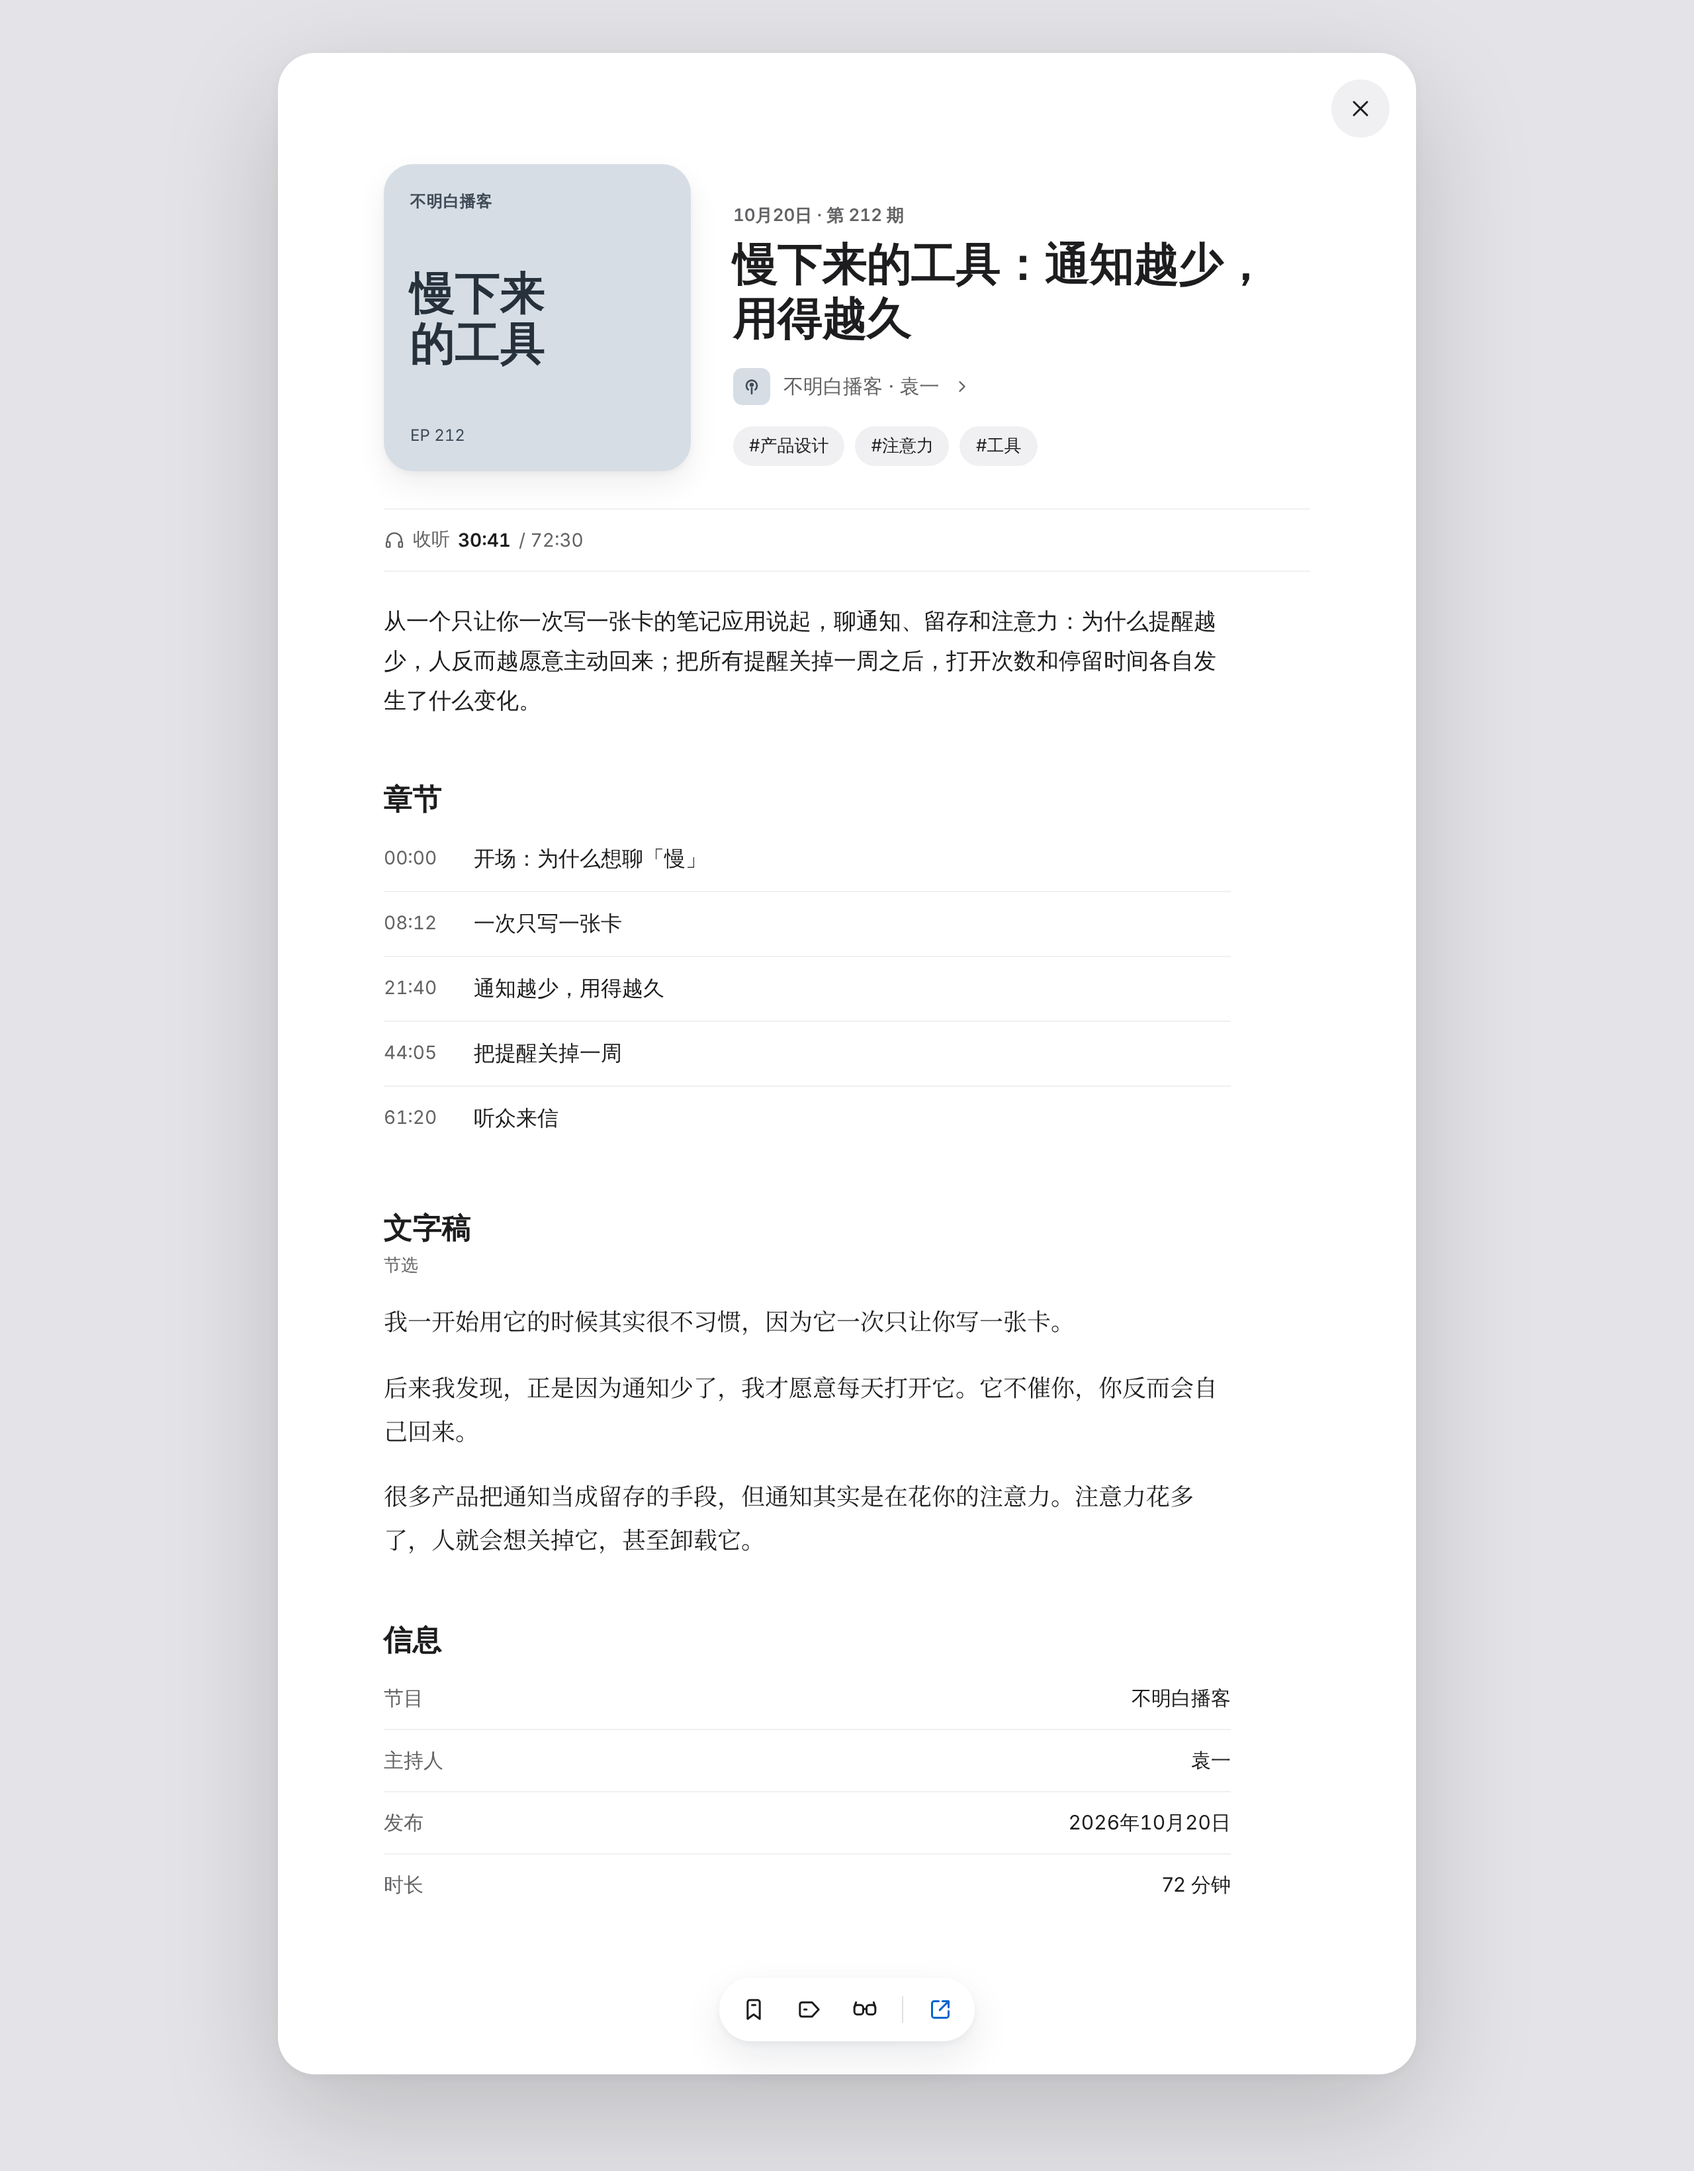
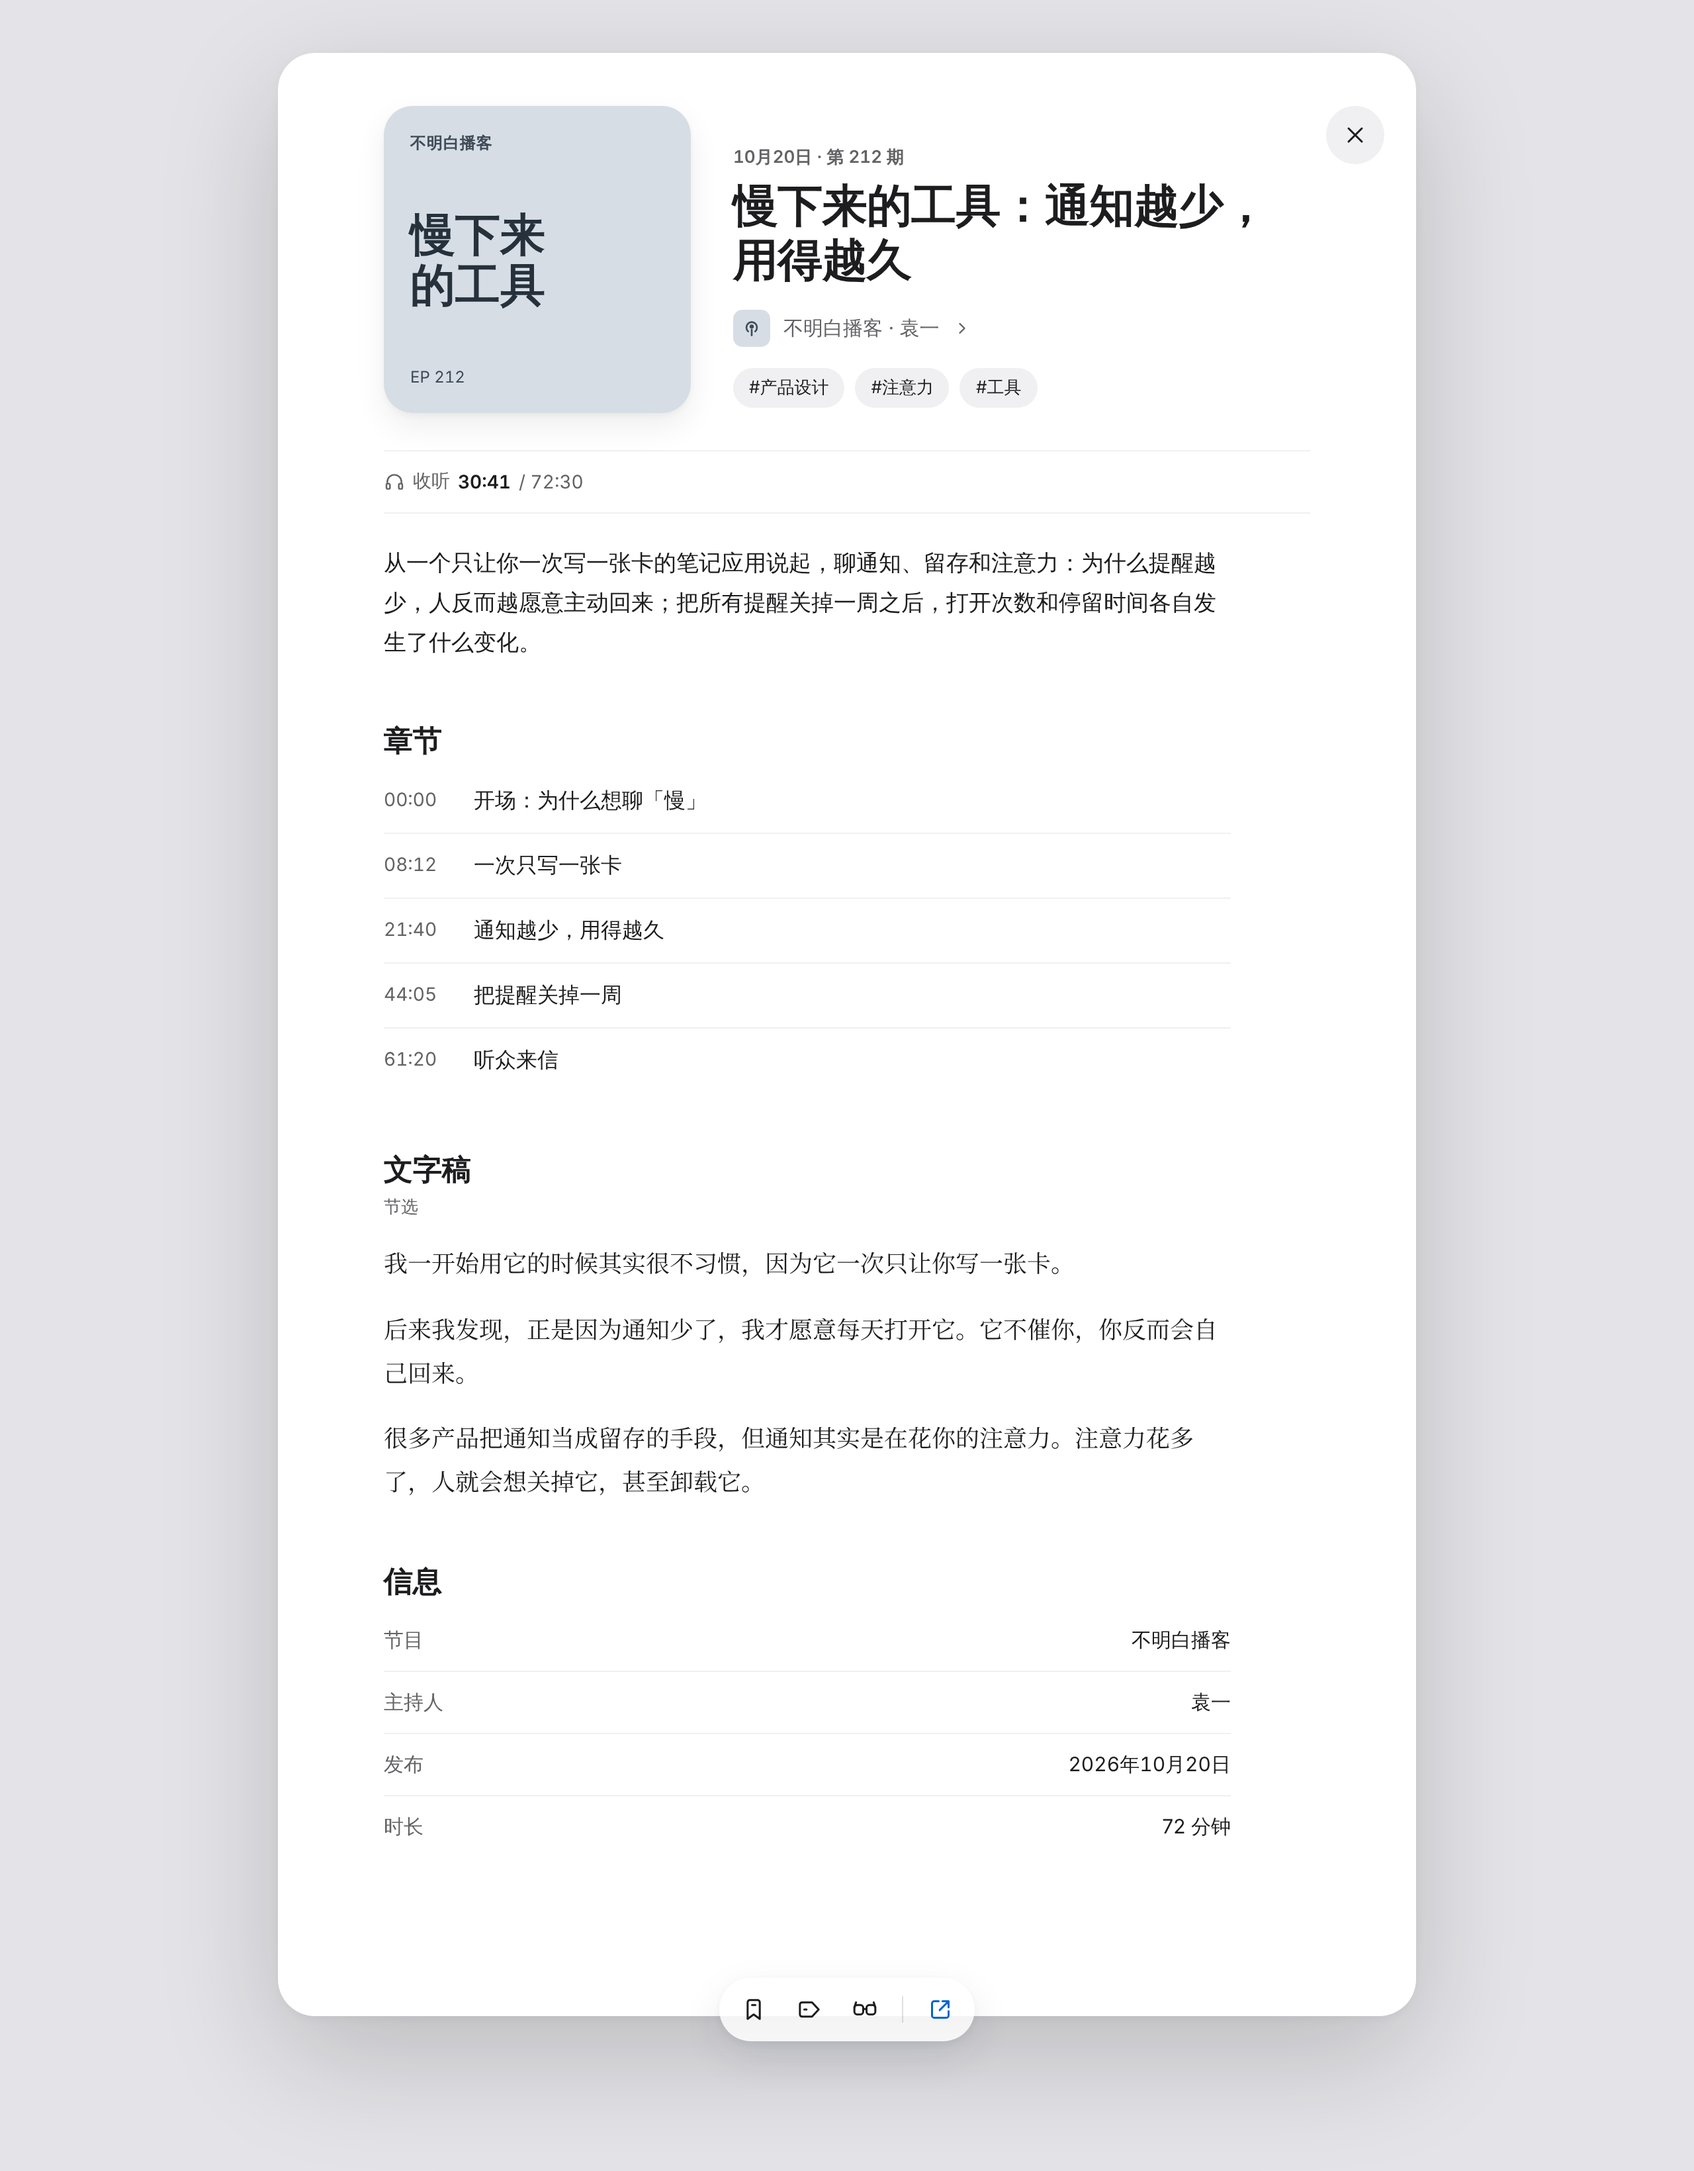
Place podcast detail close button on the cover corner
Claude-Session: https://claude.ai/code/session_01G5KotMpafMJBkqwAWDZxm9

diff --git a/docs/records/2026-10-26-podcast-detail-prototype/mobile.dc.html b/docs/records/2026-10-26-podcast-detail-prototype/mobile.dc.html
@@ -14,15 +14,13 @@ body{margin:0}
 a{color:#0066cc;text-decoration:none}a:hover{color:#0057ad}
 </style>
 </helmet>
-<div style="width: 390px; height: 1800px; box-sizing: border-box; background: #ffffff; font-family: -apple-system, BlinkMacSystemFont, 'PingFang SC', 'Hiragino Sans GB', 'Microsoft YaHei', sans-serif; color: #1d1d1f; position: relative; overflow: hidden">
+<div style="width: 390px; height: 1744px; box-sizing: border-box; background: #ffffff; font-family: -apple-system, BlinkMacSystemFont, 'PingFang SC', 'Hiragino Sans GB', 'Microsoft YaHei', sans-serif; color: #1d1d1f; position: relative; overflow: hidden">
 
   <div style="display: flex; justify-content: center; padding-top: 8px"><span aria-hidden="true" style="width: 36px; height: 5px; border-radius: 3px; background: rgba(0,0,0,0.16)"></span></div>
-  <div style="display: flex; justify-content: flex-end; align-items: center; padding: 6px 16px 0">
-    <button type="button" aria-label="关闭" title="关闭" style="width: 44px; height: 44px; border: 0; border-radius: 22px; background: rgba(255,255,255,0.86); box-shadow: 0 1px 2px rgba(16,24,40,0.05), 0 6px 18px rgba(16,24,40,0.07); color: #1d1d1f; display: flex; align-items: center; justify-content: center"><svg width="20" height="20" viewBox="0 0 24 24" fill="none" stroke="currentColor" stroke-width="1.8" stroke-linecap="round" stroke-linejoin="round" aria-hidden="true"><path d="m6 6 12 12M18 6 6 18"></path></svg></button>
-  </div>
 
   <div style="padding: 12px 20px 120px; display: flex; flex-direction: column">
-    <div style="width: 100%; aspect-ratio: 1 / 1; border-radius: 22px; background: #d6dde5; display: flex; flex-direction: column; justify-content: space-between; padding: 24px; box-sizing: border-box; box-shadow: 0 2px 5px rgba(0,0,0,0.04), 0 10px 24px rgba(0,0,0,0.07)">
+    <div style="width: 100%; aspect-ratio: 1 / 1; position: relative; border-radius: 22px; background: #d6dde5; display: flex; flex-direction: column; justify-content: space-between; padding: 24px; box-sizing: border-box; box-shadow: 0 2px 5px rgba(0,0,0,0.04), 0 10px 24px rgba(0,0,0,0.07)">
+      <button type="button" aria-label="关闭" title="关闭" style="position: absolute; top: 12px; right: 12px; width: 44px; height: 44px; border: 0; border-radius: 22px; background: rgba(255,255,255,0.86); box-shadow: 0 1px 2px rgba(16,24,40,0.05), 0 6px 18px rgba(16,24,40,0.07); color: #1d1d1f; display: flex; align-items: center; justify-content: center"><svg width="20" height="20" viewBox="0 0 24 24" fill="none" stroke="currentColor" stroke-width="1.8" stroke-linecap="round" stroke-linejoin="round" aria-hidden="true"><path d="m6 6 12 12M18 6 6 18"></path></svg></button>
       <span style="font-size: 13px; font-weight: 600; color: #3f4b57; letter-spacing: 0.04em">不明白播客</span>
       <span style="font-size: 44px; line-height: 1.1; font-weight: 800; color: #26313c">慢下来<br>的工具</span>
       <span style="font-size: 13px; color: #3f4b57; font-variant-numeric: tabular-nums">EP 212</span>
@@ -78,7 +76,7 @@ a{color:#0066cc;text-decoration:none}a:hover{color:#0057ad}
   </div>
 </div>
 </x-dc>
-<script type="text/x-dc" data-dc-script data-props='{"$preview":{"width":390,"height":1800}}'>
+<script type="text/x-dc" data-dc-script data-props='{"$preview":{"width":390,"height":1744}}'>
 class Component extends DCLogic {
 renderVals() {
 return {};

diff --git a/docs/records/2026-10-26-podcast-detail-prototype/desktop.dc.html b/docs/records/2026-10-26-podcast-detail-prototype/desktop.dc.html
@@ -15,11 +15,8 @@ a{color:#0066cc;text-decoration:none}a:hover{color:#0057ad}
 </style>
 </helmet>
 <div style="width: 1280px; height: 1640px; box-sizing: border-box; background: #e4e4e8; font-family: -apple-system, BlinkMacSystemFont, 'PingFang SC', 'Hiragino Sans GB', 'Microsoft YaHei', sans-serif; color: #1d1d1f; display: flex; justify-content: center; align-items: flex-start; padding: 40px 0; position: relative">
-  <article style="width: 860px; box-sizing: border-box; background: #ffffff; border-radius: 28px; box-shadow: 0 2px 8px rgba(0,0,0,0.04), 0 30px 90px rgba(0,0,0,0.18); padding: 20px 20px 120px; display: flex; flex-direction: column">
-
-    <div style="display: flex; justify-content: flex-end; align-items: center">
-      <button type="button" aria-label="关闭" title="关闭" style="width: 44px; height: 44px; border: 0; border-radius: 22px; background: #f0f0f2; color: #1d1d1f; display: flex; align-items: center; justify-content: center"><svg width="20" height="20" viewBox="0 0 24 24" fill="none" stroke="currentColor" stroke-width="1.8" stroke-linecap="round" stroke-linejoin="round" aria-hidden="true"><path d="m6 6 12 12M18 6 6 18"></path></svg></button>
-    </div>
+  <article style="width: 860px; box-sizing: border-box; background: #ffffff; border-radius: 28px; box-shadow: 0 2px 8px rgba(0,0,0,0.04), 0 30px 90px rgba(0,0,0,0.18); padding: 20px 20px 120px; display: flex; flex-direction: column; position: relative">
+    <button type="button" aria-label="关闭" title="关闭" style="position: absolute; top: 40px; right: 24px; width: 44px; height: 44px; border: 0; border-radius: 22px; background: #f0f0f2; color: #1d1d1f; display: flex; align-items: center; justify-content: center"><svg width="20" height="20" viewBox="0 0 24 24" fill="none" stroke="currentColor" stroke-width="1.8" stroke-linecap="round" stroke-linejoin="round" aria-hidden="true"><path d="m6 6 12 12M18 6 6 18"></path></svg></button>
 
     <div style="padding: 20px 60px 0; display: flex; flex-direction: column">
       <header style="display: flex; gap: 32px; align-items: stretch">

diff --git a/docs/records/2026-10-26-podcast-detail-prototype/README.md b/docs/records/2026-10-26-podcast-detail-prototype/README.md
@@ -6,13 +6,14 @@
 
 - 播客预览改为详情介绍页：不放播放按钮，不放 Tab，不提供全屏。
 - 保留收听记录；播客不需要阅读时长。
-- 收藏、标签、稍后读、去原文留在底部胶囊，与现有详情一致；关闭在右上角。
+- 收藏、标签、稍后读、去原文留在底部胶囊，与现有详情一致。
+- 关闭在封面图片右上角，和图片之间不留一段空白。
 
 ## 原型内容
 
 | 区域 | 内容 |
 | --- | --- |
-| 顶部 | 手机有抽屉把手；关闭在右上角 |
+| 顶部 | 手机有抽屉把手；关闭不单占一行：手机浮在封面右上角，桌面与封面顶边对齐、靠抽屉右侧 |
 | 头部 | 封面、日期与期数、标题、节目名与主持人、标签 |
 | 收听记录 | 一行文字「收听 30:41 / 72:30」；不画进度条，章节也不标当前位置，位置只表达一次 |
 | 正文 | 简介、章节（只读，不跳转）、文字稿节选、信息表（节目、主持人、发布、时长） |
@@ -32,7 +33,7 @@
 
 ## 与现行规则的差异
 
-- 现行规则是关闭按钮浮在来源行右侧，并且有全屏按钮。原型中关闭按钮放在顶部右角，并去掉了全屏。
+- 现行规则是关闭按钮浮在来源行右侧，并且有全屏按钮。原型中关闭按钮对齐封面右上角（手机压在封面上），并去掉了全屏。
 - 现行播客详情有播放器、吸顶播放条、文字稿跟随和章节跳转；原型全部去掉。
 - 节目内容、时长和标签是示例数据。
 
